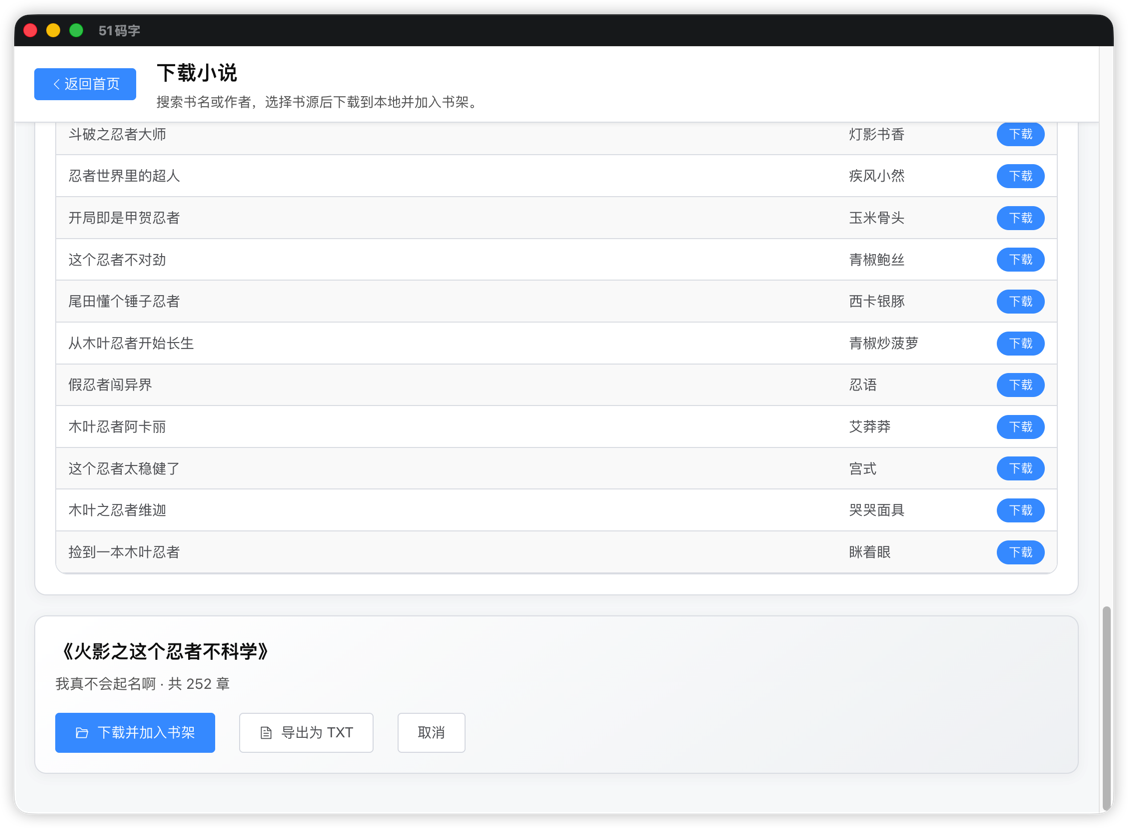
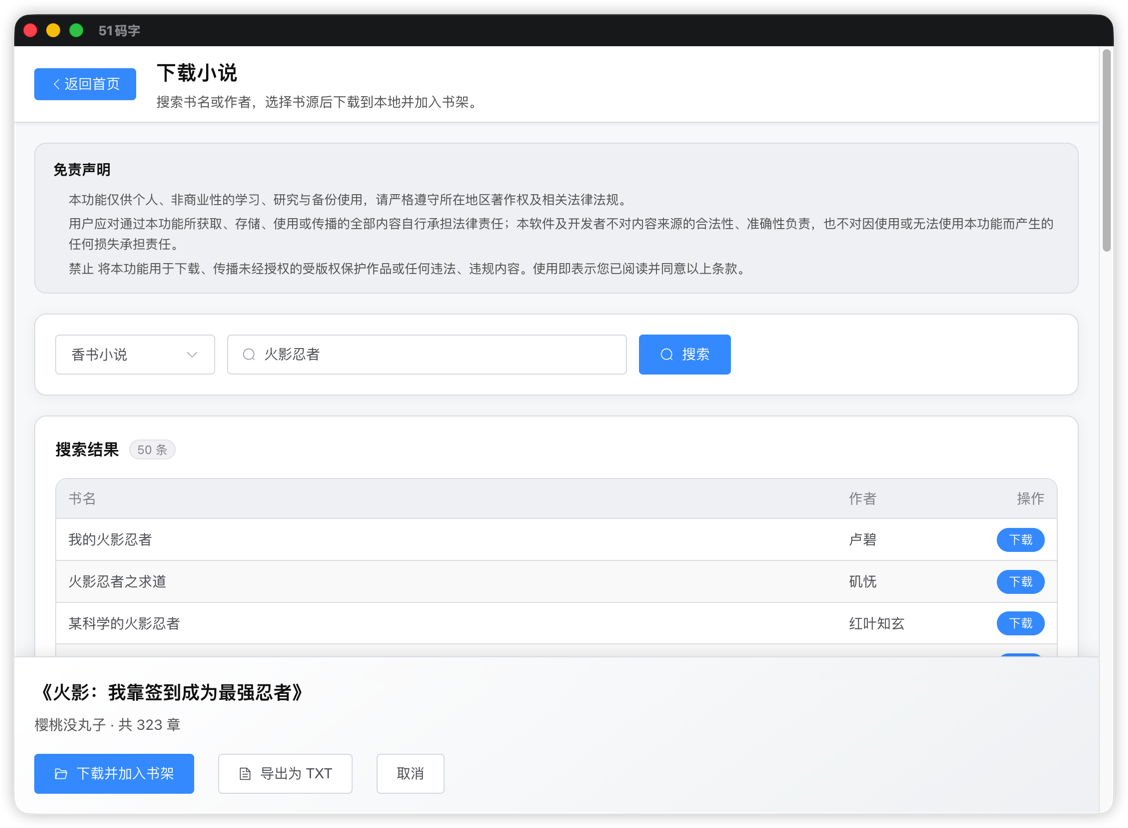
feat: 下载小说页下载卡改为底部悬浮，并新增技术博客
- NovelDownload: 选中书籍后下载操作区固定悬浮在页面底部，滚动时可见进度
- 页面增加 has-download-card 时底部预留 220px，避免列表被遮挡
- 移除选中书后自动滚动到底部的逻辑
- 新增 blog-post-19-novel-download.md（掘金/CSDN 风格，含示例图与 GitHub 引导）

Made-with: Cursor

diff --git a/src/renderer/src/views/NovelDownload.vue b/src/renderer/src/views/NovelDownload.vue
@@ -1,5 +1,5 @@
 <template>
-  <div class="novel-download-page">
+  <div class="novel-download-page" :class="{ 'has-download-card': selectedBook }">
     <!-- 顶部：悬浮栏，返回 + 标题 -->
     <header class="page-header">
       <el-button class="back-button" type="primary" @click="goBack">
@@ -88,44 +88,46 @@
       </div>
     </section>
 
-    <!-- 选中书籍后的目录与下载 -->
-    <section v-if="selectedBook" ref="downloadCardRef" class="download-card">
-      <div class="download-header">
-        <h3 class="download-title">《{{ selectedBook.title }}》</h3>
-        <p class="download-meta">{{ selectedBook.author }} · 共 {{ chapterList.length }} 章</p>
-      </div>
-      <div class="download-actions">
-        <el-button
-          type="primary"
-          size="large"
-          :loading="downloading"
-          :disabled="chapterList.length === 0"
-          @click="handleDownloadToBookshelf"
-        >
-          <el-icon v-if="!downloading"><FolderOpened /></el-icon>
-          <span>{{
-            downloading
-              ? `下载中 ${downloadProgress.current}/${downloadProgress.total}`
-              : '下载并加入书架'
-          }}</span>
-        </el-button>
-        <el-button
-          size="large"
-          :loading="downloading"
-          :disabled="chapterList.length === 0"
-          @click="handleExportTxt"
-        >
-          <el-icon v-if="!downloading"><Document /></el-icon>
-          <span>导出为 TXT</span>
-        </el-button>
-        <el-button size="large" @click="clearSelection">取消</el-button>
-      </div>
-      <div v-if="downloading" class="progress-wrap">
-        <el-progress
-          :percentage="progressPercent"
-          :stroke-width="8"
-          :status="progressPercent === 100 ? 'success' : undefined"
-        />
+    <!-- 选中书籍后的下载操作区：悬浮在页面底部，滚动时列表不被遮挡 -->
+    <section v-if="selectedBook" class="download-card download-card--fixed">
+      <div class="download-card-inner">
+        <div class="download-header">
+          <h3 class="download-title">《{{ selectedBook.title }}》</h3>
+          <p class="download-meta">{{ selectedBook.author }} · 共 {{ chapterList.length }} 章</p>
+        </div>
+        <div class="download-actions">
+          <el-button
+            type="primary"
+            size="large"
+            :loading="downloading"
+            :disabled="chapterList.length === 0"
+            @click="handleDownloadToBookshelf"
+          >
+            <el-icon v-if="!downloading"><FolderOpened /></el-icon>
+            <span>{{
+              downloading
+                ? `下载中 ${downloadProgress.current}/${downloadProgress.total}`
+                : '下载并加入书架'
+            }}</span>
+          </el-button>
+          <el-button
+            size="large"
+            :loading="downloading"
+            :disabled="chapterList.length === 0"
+            @click="handleExportTxt"
+          >
+            <el-icon v-if="!downloading"><Document /></el-icon>
+            <span>导出为 TXT</span>
+          </el-button>
+          <el-button size="large" @click="clearSelection">取消</el-button>
+        </div>
+        <div v-if="downloading" class="progress-wrap">
+          <el-progress
+            :percentage="progressPercent"
+            :stroke-width="8"
+            :status="progressPercent === 100 ? 'success' : undefined"
+          />
+        </div>
       </div>
     </section>
 
@@ -149,7 +151,7 @@
 </template>
 
 <script setup>
-import { ref, computed, nextTick, onMounted, onUnmounted } from 'vue'
+import { ref, computed, onMounted, onUnmounted } from 'vue'
 import { useRouter } from 'vue-router'
 import { ArrowLeft, Search, FolderOpened, Document, Reading } from '@element-plus/icons-vue'
 import { ElMessage, ElMessageBox } from 'element-plus'
@@ -225,8 +227,6 @@ async function handleSearch() {
   }
 }
 
-const downloadCardRef = ref(null)
-
 async function handleSelectBook(book) {
   selectedBook.value = book
   chapterList.value = []
@@ -237,8 +237,6 @@ async function handleSelectBook(book) {
     const res = await getNovelChapterList(book.url, book.sourceId)
     if (res.success && res.chapters?.length) {
       chapterList.value = res.chapters
-      await nextTick()
-      downloadCardRef.value?.scrollIntoView({ behavior: 'smooth', block: 'start' })
     } else {
       ElMessage.warning(res.message || '获取目录失败')
     }
@@ -417,6 +415,11 @@ $radius-card: 12px;
   padding: 0 20px 20px 20px;
   box-sizing: border-box;
   background: var(--bg-primary);
+
+  /* 当底部悬浮下载卡出现时，为列表预留空间，避免最后几行被遮挡 */
+  &.has-download-card {
+    padding-bottom: 220px;
+  }
 }
 
 /* 顶部：悬浮在页面顶部，返回 + 标题 */
@@ -575,14 +578,34 @@ $radius-card: 12px;
   --el-table-header-bg-color: var(--bg-mute);
 }
 
-/* 下载操作卡片 */
+/* 下载操作卡片：默认样式 + 悬浮在页面底部时的样式 */
 .download-card {
-  margin-bottom: 20px;
   padding: 20px;
   background: linear-gradient(145deg, var(--bg-soft) 0%, var(--bg-mute) 100%);
   border: 1px solid var(--border-color);
   border-radius: $radius-card;
   box-shadow: 0 2px 12px rgba(0, 0, 0, 0.04);
+
+  /* 悬浮在页面底部，滚动时始终可见，方便查看下载进度 */
+  &--fixed {
+    position: fixed;
+    bottom: 0;
+    left: 0;
+    right: 0;
+    z-index: 90;
+    margin: 0;
+    border-radius: 0;
+    border-left: none;
+    border-right: none;
+    border-bottom: none;
+    box-shadow: 0 -2px 16px rgba(0, 0, 0, 0.08);
+  }
+}
+
+.download-card-inner {
+  max-width: 1200px;
+  margin: 0 auto;
+  box-sizing: border-box;
 }
 
 .download-header {

diff --git a/blog/blog-post-19-novel-download.md b/blog/blog-post-19-novel-download.md
@@ -1,0 +1,225 @@
+# 🔍 在 Electron 里造一个「搜书 + 下载」：从 so-novel 到 51mazi 的爬虫实践
+
+> **一句话推荐**：在 Electron + Vue 3 里实现「搜书名 → 选书源 → 一键下载到本地」的完整方案，含多书源配置、Cheerio 解析、GBK 编码、正文去广告与 IPC 踩坑实录，附源码与 GitHub 链接。
+
+> 💡 **适合谁读**：做 Electron / Vue 桌面应用、想接「网页抓取」或「多数据源聚合」的开发者；对 so-novel、小说下载、Cheerio 爬虫感兴趣的读者。本文从产品界面到主进程实现、从书源配置到踩坑实录一条龙讲清，文末附完整代码地图与 GitHub 链接，欢迎 Star 与 Fork，仅供学习与合规使用。
+>
+> **📌 阅读收获**：Electron 主进程里用 fetch + Cheerio 做多书源抓取的完整思路；书源配置驱动、GET/POST/编码/选择器的落地写法；Vue 响应式对象经 IPC 传递时的「对象无法克隆」问题与解决方案；正文去广告的 filterTxt 设计。
+
+## 📋 目录
+
+- [📸 功能长什么样：一图看懂](#-功能长什么样一图看懂)
+- [💡 需求从哪来：so-novel 的启发](#-需求从哪来so-novel-的启发)
+- [🏗 整体架构：谁在干活、谁在展示](#-整体架构谁在干活谁在展示)
+- [⚙ 书源配置：把「规则」搬进 JavaScript](#-书源配置把规则搬进-javascript)
+- [🛠 抓取三板斧：请求、编码、解析](#-抓取三板斧请求编码解析)
+- [🧹 正文清洗：filterTxt 与广告说再见](#-正文清洗filtertxt-与广告说再见)
+- [🐛 踩坑实录：超时、编码、以及「对象无法克隆」](#-踩坑实录超时编码以及对象无法克隆)
+- [🎨 前端体验：进度、取消与免责](#-前端体验进度取消与免责)
+- [🎉 小结与 GitHub](#-小结与-github)
+
+---
+
+## 📸 功能长什么样：一图看懂
+
+在 51mazi 里，从首页侧栏进入「下载小说」，你会看到：顶部悬浮栏（返回首页 + 页面说明）、书源选择与搜索框、搜索结果列表，以及选中某本书后的目录信息与操作按钮。
+
+![51mazi 下载小说页面](https://raw.githubusercontent.com/xiaoshengxianjun/51mazi/main/static/novelDownload.png)
+
+*搜索「火影」后的结果：多书源列表、选中书籍的章节数与「下载并加入书架 / 导出为 TXT / 取消」操作 — 全部在写作软件内完成，无需切浏览器*
+
+流程很简单：**选书源 → 输入书名或作者 → 搜索 → 点某本书的「下载」→ 拉取目录后选择「下载并加入书架」或「导出为 TXT」**。下面从实现角度拆解：规则从哪来、谁在请求、谁在解析、以及我们踩了哪些坑。文末有完整代码地图与 GitHub 链接，方便你直接对照源码或给项目点个 Star。
+
+---
+
+## 💡 需求从哪来：so-novel 的启发
+
+[so-novel](https://github.com/freeok/so-novel) 是一个用 Java 写的小说搜索与下载工具，核心思路是：**用 JSON 配置描述每个书源的搜索方式、列表/目录/正文的 CSS 选择器**，再写一套通用引擎去「按规则抓」。我们不想重写 Java，但可以复用同一套「规则思维」：把 main.json 里的书源抽象成「搜索接口 + 选择器 + 过滤正则」，在 Node 里用 `fetch` + Cheerio 实现一版，塞进 Electron 主进程，渲染进程只负责搜索框、结果列表和「下载 / 导出 TXT」。
+
+目标很明确：
+
+- 用户输入书名或作者 → 当前书源搜索 → 展示结果列表  
+- 用户点某本书 → 拉取目录 → 可选「下载并加入书架」或「导出为 TXT」  
+- 正文要能去广告、去站内推广文案，尽量干净
+
+下面就从架构到实现、从配置到坑，捋一遍。
+
+---
+
+## 🏗 整体架构：谁在干活、谁在展示
+
+51mazi 是 Electron + Vue 3。**所有对外请求和 HTML 解析都放在主进程**，避免渲染进程直接请求第三方站点带来的跨域和安全性问题；渲染进程只通过 IPC 发「搜索 / 拉目录 / 下载章节」的指令，并接收进度事件。
+
+```
+┌─────────────────────────────────────────────────────────────────┐
+│  渲染进程 (Vue 3)                                                │
+│  NovelDownload.vue：搜索框、书源选择、结果表、下载区、进度条      │
+│  novel.js：封装 window.electron.novel*，序列化章节再发 IPC        │
+└───────────────────────────┬─────────────────────────────────────┘
+                            │ IPC: novel:search / get-chapter-list / download-chapters
+                            │ 事件: novel-download-progress
+▼───────────────────────────┴─────────────────────────────────────┐
+│  主进程 (Node.js)                                                  │
+│  novelDownloader.js：fetchHtml、Cheerio 解析、cleanContent        │
+│  index.js：ipcMain.handle('novel:*')，下载时 send('novel-download-progress') │
+└───────────────────────────────────────────────────────────────────┘
+```
+
+这样做的结果：**爬虫逻辑和书源规则集中在一个服务文件里**，便于维护和扩展书源；前端只关心「调接口、展示、进度」。
+
+---
+
+## ⚙ 书源配置：把「规则」搬进 JavaScript
+
+so-novel 的规则是 JSON：搜索 URL、GET/POST、搜索参数模板、列表/书名/作者/目录/正文的选择器、正文过滤正则等。我们在 `novelDownloader.js` 里用了一个 `BOOK_SOURCES` 数组，每个元素对应一个书源，例如：
+
+```javascript
+{
+  id: 'xbiqugu',
+  name: '香书小说',
+  encoding: 'utf-8',
+  searchMethod: 'post',
+  searchUrl: 'http://www.xbiqugu.la/modules/article/waps.php',
+  searchData: '{"searchkey": "%s"}',
+  searchListSelector: '#checkform > table > tbody > tr',
+  searchTitleSelector: 'td.even > a',
+  searchAuthorSelector: 'td:nth-of-type(3)',
+  searchBookUrlAttr: 'href',
+  chapterListSelector: '#list > dl > dd > a',
+  contentSelector: '#content',
+  filterTxt: '一秒记住【文学巴士...】|(www.xbiquge.la...)|...'
+}
+```
+
+- **GET / POST**：`searchMethod` 为 `get` 时用 URL 拼 `%s`（关键词）；为 `post` 时用 `searchData` 模板，`%s` 替换为 JSON 转义后的关键词，再 `fetch(..., { method: 'POST', body })`。  
+- **目录 URL 不一定等于书籍页**：有的书源目录是单独路径，用 `tocUrlPattern: 'https://xxx/read/%s/'`，从书籍 URL 里抽出 bookId 再拼成目录页。  
+- **encoding**：不少站是 GBK，用 `iconv-lite` 在拿到 `ArrayBuffer` 后解码成字符串再交给 Cheerio。
+
+这样，新增书源就是往 `BOOK_SOURCES` 里推一个对象，不用改业务逻辑。
+
+---
+
+## 🛠 抓取三板斧：请求、编码、解析
+
+### 📡 1. 请求：fetch + 超时 + 像浏览器
+
+主进程里用原生 `fetch`，配合 `AbortController` 做超时（例如 25 秒），避免某个书源卡死整条链路。请求头尽量像浏览器：`User-Agent`、`Accept`、`Accept-Language`、`Cache-Control`、`Pragma`，减少被站点当脚本直接掐的概率。
+
+```javascript
+const controller = new AbortController()
+const timeoutId = setTimeout(() => controller.abort(), FETCH_TIMEOUT_MS)
+const res = await fetch(url, { signal: controller.signal, redirect: 'follow', headers })
+// ...
+clearTimeout(timeoutId)
+```
+
+超时或连接失败时，把错误转成用户可读的「请求超时 / 无法连接书源，请检查网络或更换书源」再抛给前端。
+
+### 🔤 2. 编码：UTF-8 与 GBK
+
+`res.arrayBuffer()` 拿到的是原始字节。若书源声明 `encoding: 'gbk'`，就用 `iconv-lite` 解码：
+
+```javascript
+const buf = await res.arrayBuffer()
+const bytes = new Uint8Array(buf)
+if (encoding && encoding.toLowerCase() !== 'utf-8') {
+  return iconv.decode(Buffer.from(bytes), encoding)
+}
+return new TextDecoder('utf-8').decode(bytes)
+```
+
+否则 Cheerio 解析时会得到乱码，书名、作者、正文全挂。
+
+### 🔍 3. 解析：Cheerio 按选择器抽
+
+搜索页：用 `searchListSelector` 找到每一行，再在每行里用 `searchTitleSelector` / `searchAuthorSelector` 取书名、作者，用 `searchBookUrlAttr` 取链接，并 `resolveUrl(base, href)` 转成绝对 URL。  
+目录页：用 `chapterListSelector` 遍历 `<a>`，收集 `text` 和 `href`。  
+正文页：用 `contentSelector` 取一块 HTML，交给清洗函数。
+
+---
+
+## 🧹 正文清洗：filterTxt 与广告说再见
+
+很多站会在正文里插「一秒记住本站」「手机用户请…」「本章完」等。我们在 so-novel 里看到用 `filterTxt` 存一串正则，用 `|` 分隔，在正文里逐个替换掉。实现方式：
+
+- 先把 HTML 变成纯文本：去 `<script>` / `<style>`，`<br>` 换行，其他标签去壳，HTML 实体解码。  
+- 若配置了 `filterTxt`，按 `|` 拆成多条正则，对文本做 `replace(re, '')`，无效正则静默跳过。  
+- 最后把连续多个换行压成双换行，trim。
+
+这样导出的 TXT 和加入书架后的正文会干净很多。
+
+---
+
+## 🐛 踩坑实录：超时、编码、以及「对象无法克隆」
+
+### ⏱ 超时与连接错误
+
+一开始用较短超时，部分书源响应慢，容易报错。把超时调到 25 秒，并对 `AbortError`、`ECONNREFUSED`、`UND_ERR_CONNECT_TIMEOUT` 做专门处理，统一成前端可展示的文案，避免直接把 Node 的报错扔给用户。
+
+### 🔤 编码
+
+某书源列表乱码，检查后发现该站是 GBK 而代码里按 UTF-8 解。给该书源加上 `encoding: 'gbk'`，并用 `iconv-lite` 解码后恢复正常。
+
+### 🔗 「An object could not be cloned」
+
+下载章节时要把「章节列表」从渲染进程传到主进程。章节列表来自 Vue 的响应式数据，本质是 Proxy。Electron IPC 使用结构化克隆，**无法序列化 Proxy**，会报 "An object could not be cloned"。
+
+解决办法：在调用 `novelDownloadChapters` 前，先把章节列表转成纯对象数组再传：
+
+```javascript
+const plainList = (chapterList || []).map((c) => ({
+  title: String(c.title),
+  url: String(c.url)
+}))
+return window.electron.novelDownloadChapters({ chapterList: plainList, sourceId })
+```
+
+这样主进程拿到的是普通数组，不再碰 Vue 的 Proxy。
+
+---
+
+## 🎨 前端体验：进度、取消与免责
+
+- **进度**：主进程在每章抓取完成后 `event.sender.send('novel-download-progress', { current, total })`，渲染进程监听 `novel-download-progress`，更新进度条并禁用按钮，避免重复点击。  
+- **取消 / 换书**：用户取消或切换书籍时，除了清空当前选中书和目录，还要把「下载中」状态和进度重置，否则会一直卡在「下载中」。  
+- **导出 TXT**：和「下载并加入书架」共用同一套章节拉取逻辑，只是最后一步改为写单个 TXT 文件到用户选择目录。  
+- **免责声明**：页面顶部保留醒目免责说明：个人非商业使用、用户对内容合法性自负、禁止传播侵权内容等，既合规又降低法律风险。
+
+---
+
+## 🎉 小结与 GitHub
+
+在 Electron 里做「搜书 + 下载」，本质是：**主进程负责请求与解析，书源用配置驱动，渲染进程只发指令和展示**。借鉴 so-novel 的规则设计，用 Node + Cheerio + iconv-lite 实现多书源、GET/POST、编码与正文过滤，再把 IPC 和 Vue 响应式之间的「可序列化」问题处理掉，就能在 51mazi 里实现一版可用的下载小说功能。
+
+**本文要点回顾：**
+
+- ✅ **多书源、可配置**：书源用 JS 对象描述，新增书源只需加配置，无需改引擎
+- ✅ **主进程抓取、渲染进程展示**：请求与解析在主进程，避免跨域与安全风险
+- ✅ **编码与超时**：GBK 用 iconv-lite，fetch 用 AbortController 超时，错误转成用户可读提示
+- ✅ **正文去广告**：filterTxt 多段正则，导出 TXT 与加入书架后的正文更干净
+- ✅ **Vue Proxy 与 IPC**：章节列表先转成纯对象再传主进程，避免「对象无法克隆」
+
+**核心文件一览：**
+
+| 文件 | 职责 |
+|------|------|
+| `src/main/services/novelDownloader.js` | 书源配置、fetchHtml、搜索/目录/正文解析、cleanContent |
+| `src/main/index.js` | `novel:get-sources` / `novel:search` / `novel:get-chapter-list` / `novel:download-chapters`，进度事件 |
+| `src/preload/index.js` | 暴露 `novel*` API，转发 `novel-download-progress` |
+| `src/renderer/src/service/novel.js` | 封装 IPC，章节列表序列化后再传主进程 |
+| `src/renderer/src/views/NovelDownload.vue` | 搜索 UI、结果表、下载区、进度条、免责声明 |
+
+如果你也在给桌面应用加「从网页抓内容」的能力，希望这篇从 so-novel 到 51mazi 的实践能帮你少踩一点坑。**51mazi 完全开源**，欢迎直接拿代码、提 Issue、提 PR；使用本功能时请务必遵守当地法律法规与版权要求，仅限个人学习与合规使用。
+
+- **GitHub 仓库**：[51mazi](https://github.com/xiaoshengxianjun/51mazi) — ⭐ **给个 Star 支持一下，让更多写作者发现这款工具！**
+- **同系列**：书架管理、AI 封面、地图设计等可参考仓库内其他博客与源码。
+
+### 🏷 标签
+
+`#Electron` `#Vue3` `#爬虫` `#Cheerio` `#小说下载` `#so-novel` `#IPC` `#多书源` `#51mazi` `#写作软件`
+
+---
+
+> 💡 **如果这篇文章对你有帮助，欢迎在 GitHub 给 51mazi 点个 ⭐ Star，让更多写作者和开发者发现这个项目！**
+>
+> 本文基于 51mazi 开源项目「下载小说」功能，仅供学习与合规使用。
